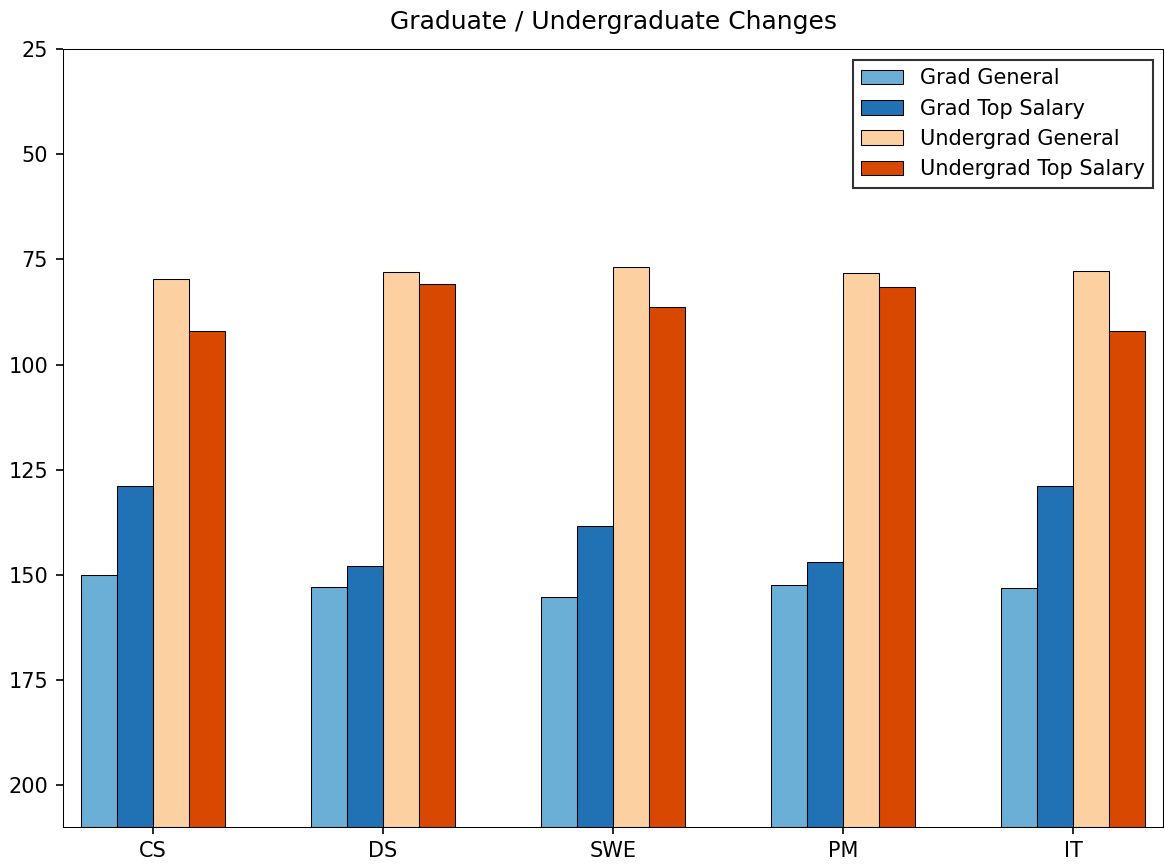
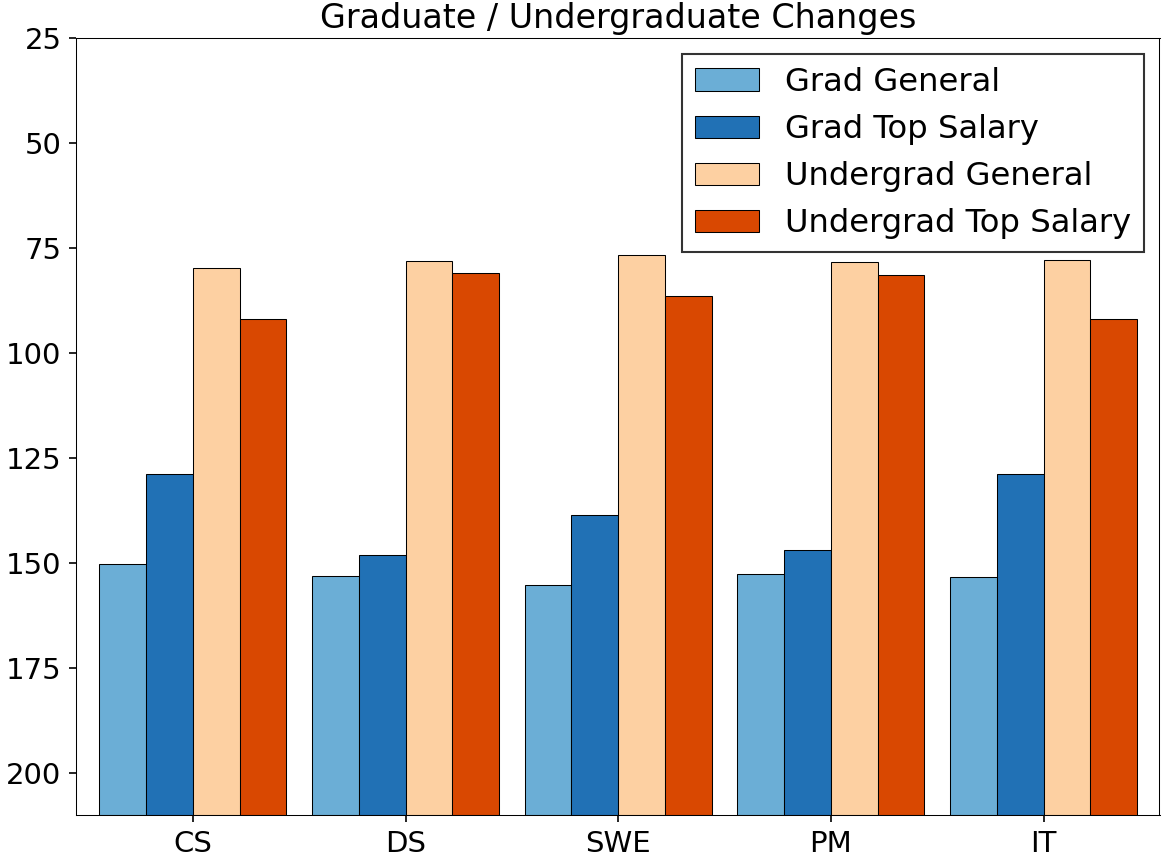
changed grad vs undergrad figure a bit

diff --git a/analyze_top_bottom_courses/plot_grad_vs_undergrad.py b/analyze_top_bottom_courses/plot_grad_vs_undergrad.py
@@ -64,7 +64,7 @@ plt.figure(figsize=(8, 6))
 
 # Set bar width and positions with custom spacing
 bar_width = 0.11
-spacing_factor = 0.7  # Controls gap between field groups
+spacing_factor = 0.5  # Controls gap between field groups
 r1 = np.arange(len(fields)) * spacing_factor
 r2 = [x + bar_width for x in r1]
 r3 = [x + bar_width for x in r2]
@@ -102,18 +102,19 @@ plt.gca().spines['top'].set_linewidth(0.5)
 plt.gca().spines['bottom'].set_linewidth(0.5)
 
 # Customize the plot
-plt.title('Graduate / Undergraduate Changes', pad=10)
+plt.title('Graduate / Undergraduate Changes', pad=5, fontsize=16)
 
 # Update x-ticks to align with the center of each group of bars
 group_centers = r1 + (1.5 * bar_width)  # Calculate center of each group
-plt.xticks(group_centers, fields)
+plt.xticks(group_centers, fields, fontsize=14)
+plt.yticks(fontsize=14)
 
 # Adjust the plot limits to show all bars with some padding
 plt.xlim(min(r1) - bar_width, max(r4) + bar_width)
 plt.ylim(210, 25)
 
 # Add legend with slightly adjusted position
-plt.legend(loc='upper right', frameon=True, edgecolor='black', fancybox=False)
+plt.legend(loc='upper right', frameon=True, edgecolor='black', fancybox=False, fontsize=15.5)
 
 # Adjust layout to prevent label cutoff
 plt.tight_layout()
